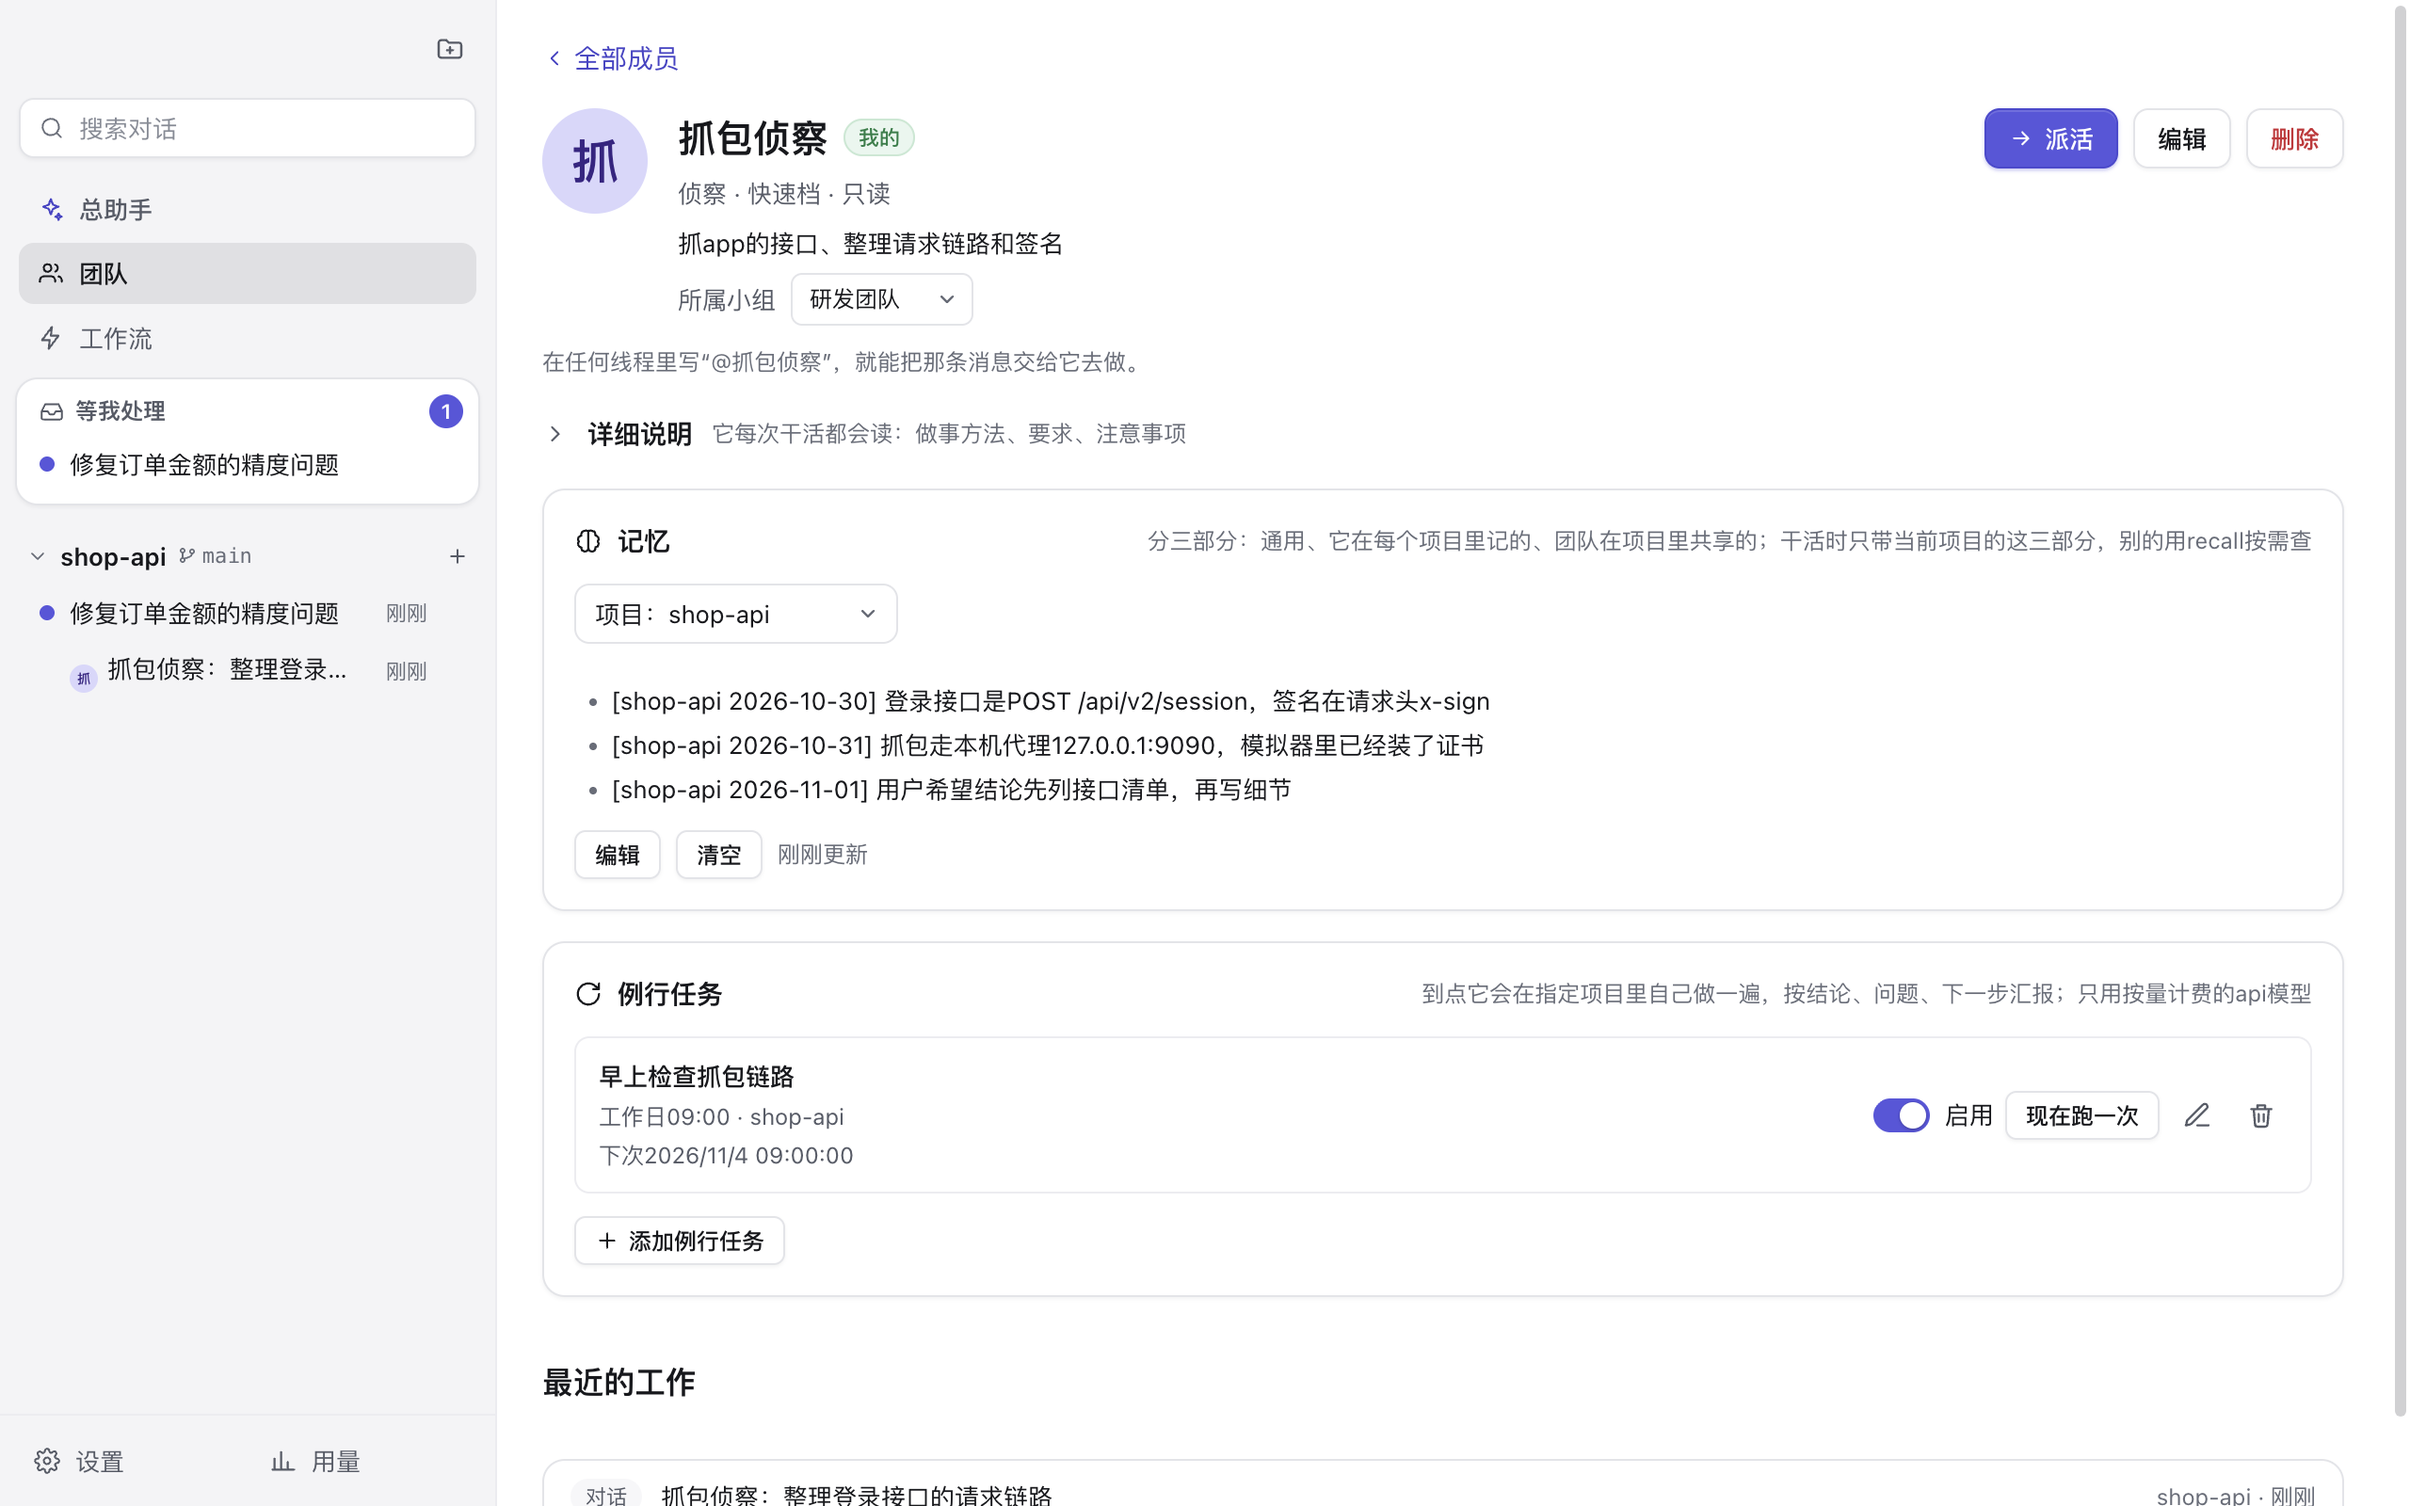
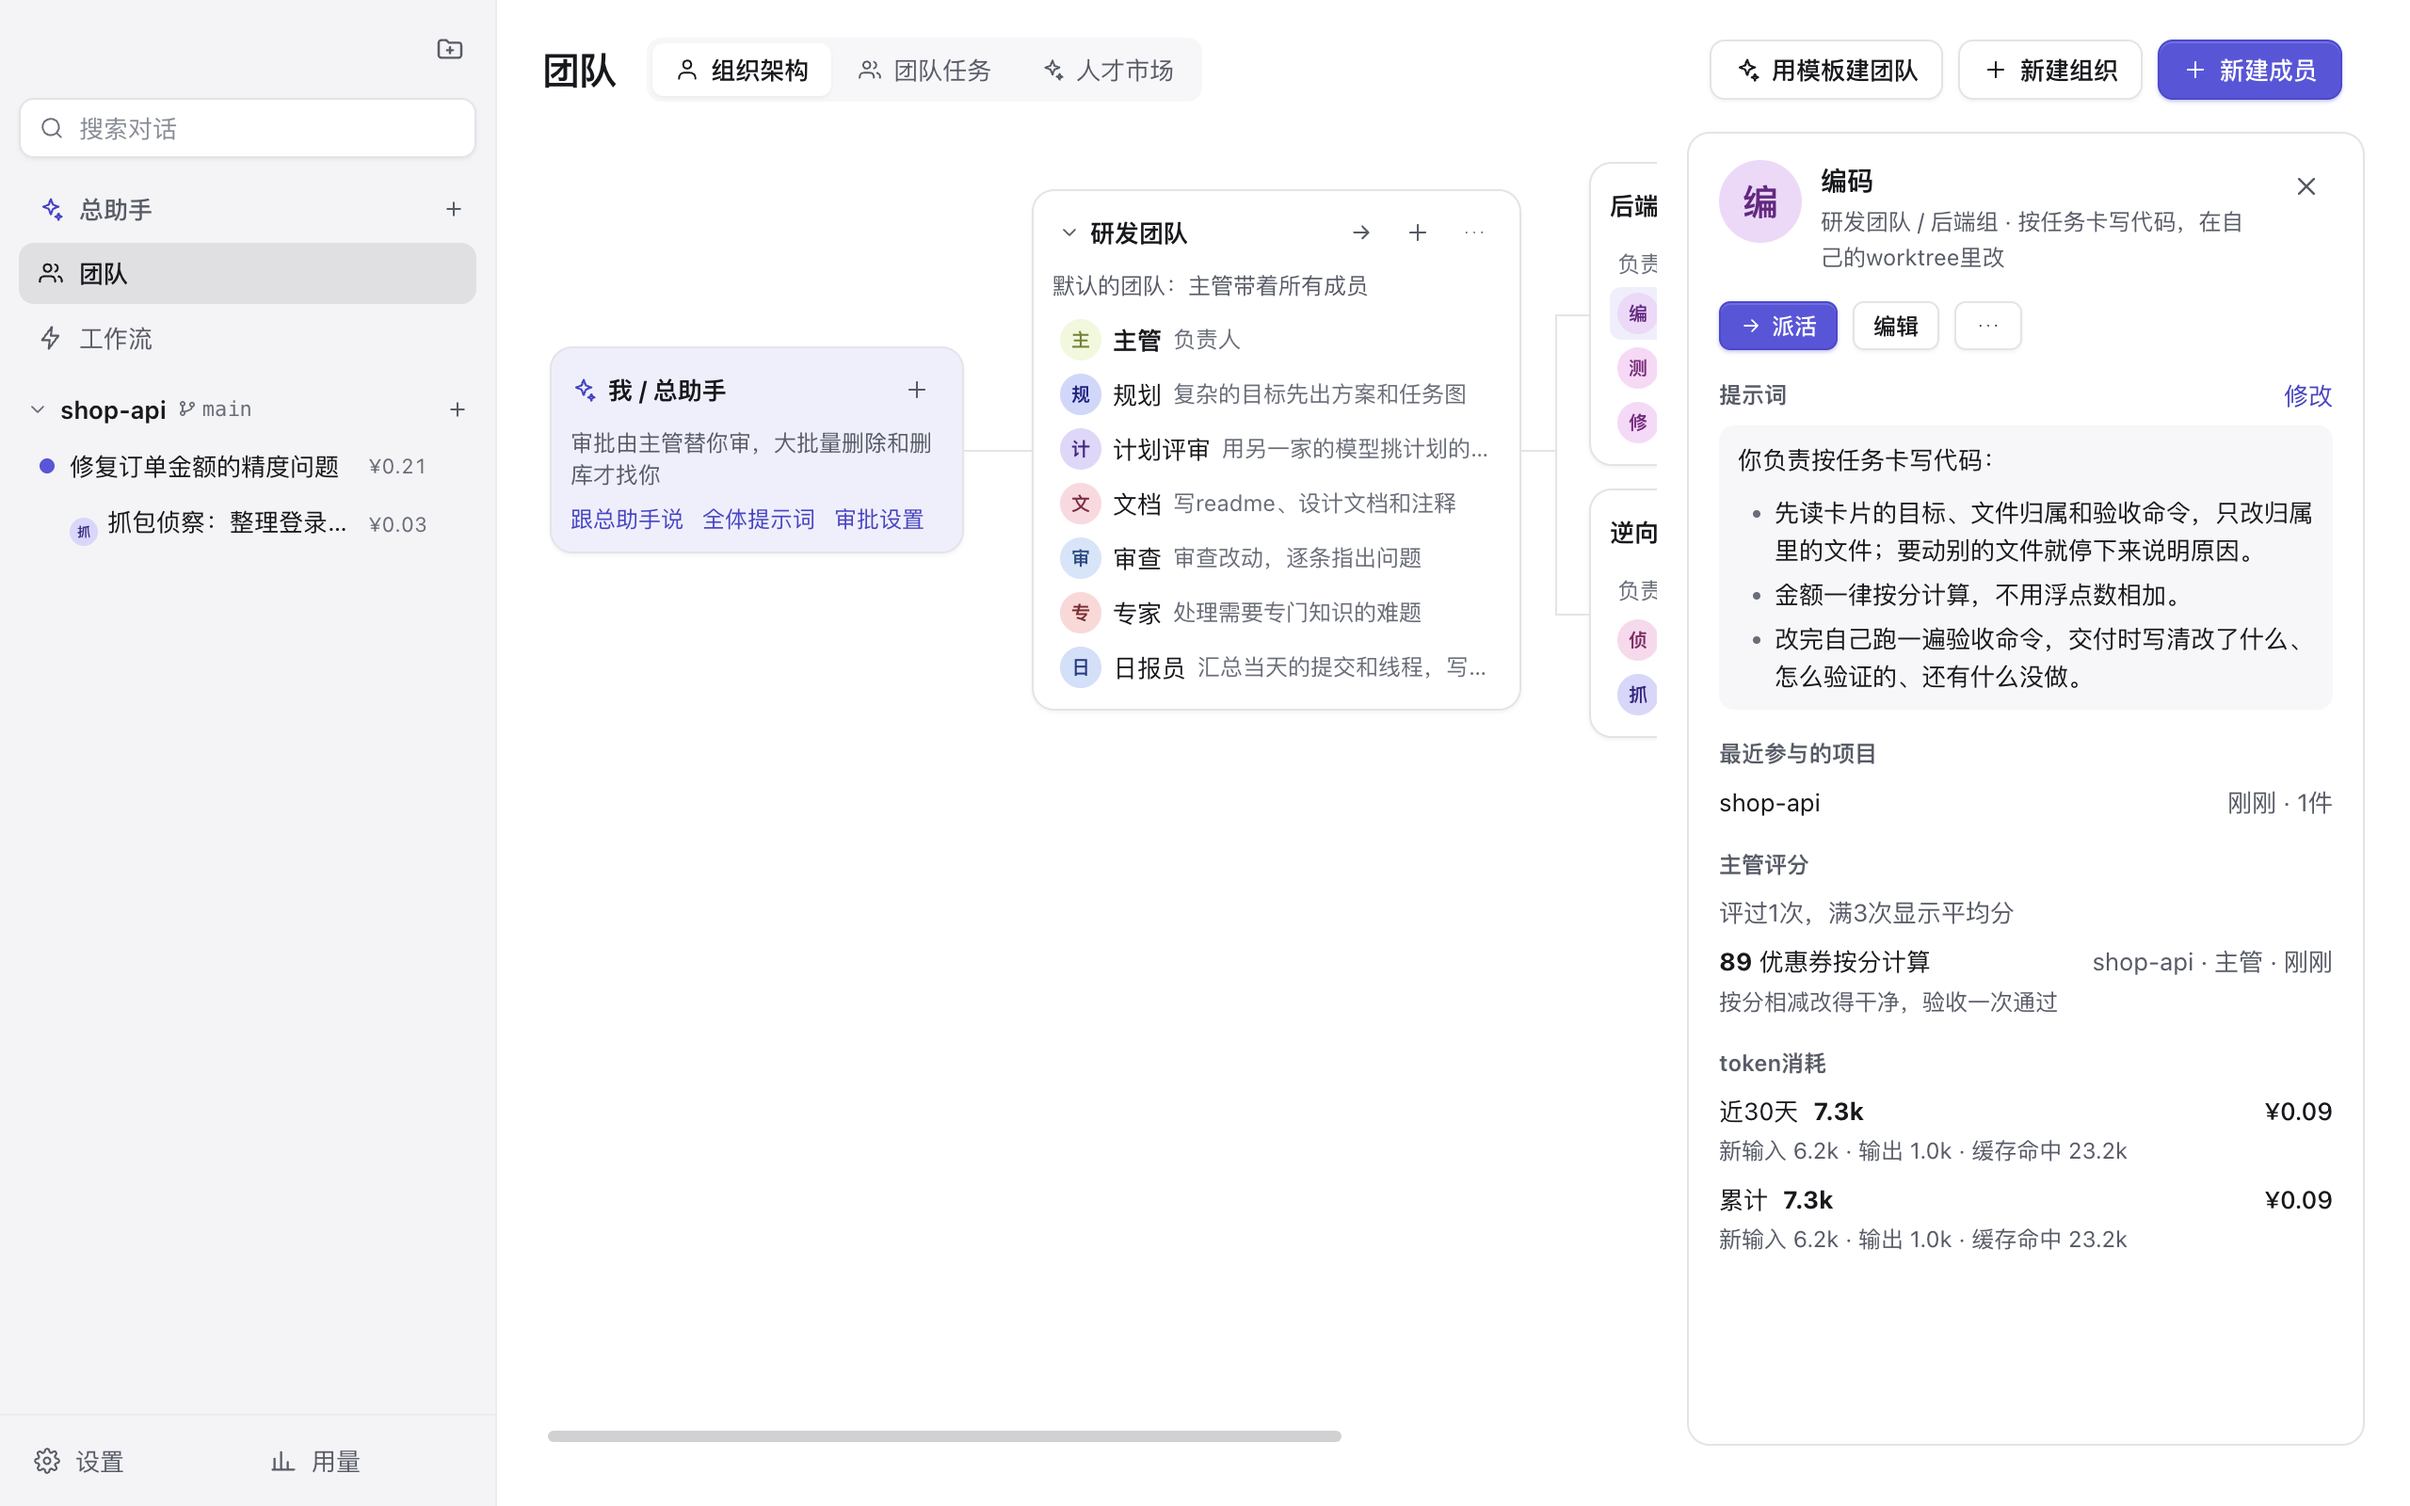
docs: the README for 1.2, with new screenshots
All screenshots taken again in the 1.2.0 package: the fix with its plan above
the composer, the organization tree with the back end and the reverse
engineering as organizations under the R&D team, the coder's panel with its
project, score and tokens, the talent market, the workflow, the team run and
the chief. The text follows: the chief belongs to no project, the tree and
its leads, the member panel, the market, the plan and the thinking.

The demo answers with DeepSeek's usage on the DeepSeek preset, so tokens and
costs read as they would; the supervisor scores the cards; the team run
writes a report of its own rather than the workflow's; the coder has
instructions in the user's words.

diff --git a/build/readme-shots.ts b/build/readme-shots.ts
@@ -8,14 +8,18 @@ import { fileURLToPath } from 'node:url';
 import { parseArgs } from 'node:util';
 import { FuseV1Options, FuseVersion, flipFuses, getCurrentFuseWire } from '@electron/fuses';
 import { type ElectronApplication, _electron as electron, type Page } from 'playwright-core';
-import { openaiText, openaiToolCalls, startMockModelServer } from '../packages/test-kit/src/index.ts';
+import {
+    startMockModelServer,
+    openaiText as textTurn,
+    openaiToolCalls as toolTurn,
+} from '../packages/test-kit/src/index.ts';
 import { forgetAppCopy, secretStoreSwitches } from './app-switches.ts';
 
 /**
  * The README's screenshots (docs/images/), taken in the real app against a scripted model server and a demo
- * project, so they show the product without anyone's paths, accounts or keys: a fix in a thread with its diff
- * (light and dark), the members, one member's memory and routines, a workflow run's conclusion, a team run and the
- * chief assistant's home.
+ * project, so they show the product without anyone's paths, accounts or keys: a fix in a conversation with its plan
+ * and diff (light and dark), the organization tree, one member's panel, the talent market, a workflow run's
+ * conclusion, a team run and a conversation with the chief assistant.
  *
  *   node build/readme-shots.ts                 unpackaged shell with dist/app-bundle (run `pnpm build && pnpm bundle`)
  *   node build/readme-shots.ts --app <exe>     a packaged build
@@ -123,6 +127,27 @@ test('takes coupons off in fen', () => {
     assert.equal(applyCoupon(0.3, { amount: 0.1 }), 0.2);
 });
 `;
+
+/**
+ * Every answer reports its usage as DeepSeek does, so tokens and costs read as they would: most of a prompt read
+ * from the cache, a few hundred tokens out. Made up, but the same on every run.
+ */
+let served = 0;
+function usage(): Record<string, number> {
+    served++;
+    const prompt = 6_000 + ((served * 2_741) % 9_000);
+    const hit = Math.round(prompt * (0.72 + ((served * 37) % 20) / 100));
+    return {
+        prompt_tokens: prompt,
+        completion_tokens: 180 + ((served * 113) % 700),
+        prompt_cache_hit_tokens: hit,
+        prompt_cache_miss_tokens: prompt - hit,
+    };
+}
+const openaiText = (text: string, options: Parameters<typeof textTurn>[1] = {}) =>
+    textTurn(text, { usage: usage(), ...options });
+const openaiToolCalls = (items: Parameters<typeof toolTurn>[0], options: Parameters<typeof toolTurn>[1] = {}) =>
+    toolTurn(items, { usage: usage(), ...options });
 
 function git(...args: string[]): void {
     execFileSync('git', args, { cwd: repo, stdio: 'ignore' });
@@ -359,6 +384,39 @@ server.respondWith((request) => {
             ].join('\n'),
         );
     }
+    // The supervisor scores each card once the report is written (19 §9): a small move on a base from the facts.
+    if (systemOf(body).includes('scoring how your members did')) {
+        return openaiText(
+            JSON.stringify({
+                scores: [
+                    { task: 'T1', adjust: 4, reason: '按分相减改得干净，验收一次通过' },
+                    { task: 'T2', adjust: 3, reason: '用例覆盖了小数金额和减到0' },
+                    { task: 'T3', adjust: 0, reason: 'CHANGELOG写清了这次修正' },
+                ],
+            }),
+        );
+    }
+    // The team run's report: what it set out to do and did.
+    if (
+        !body.tools?.length &&
+        JSON.stringify(messages).includes('## 目标达成') &&
+        user.includes('优惠券也改成按分计算')
+    ) {
+        return openaiText(
+            [
+                '## 目标达成',
+                '优惠券也按分计算了：0.3元减0.1元得0.2元，不再有小数误差；`node --test`四条全过，CHANGELOG记好了。',
+                '',
+                '## 已完成',
+                '- `applyCoupon`改成按分相减（`src/order.js`）',
+                '- 补了小数金额优惠券的用例，4条测试全过（`test/order.test.js`）',
+                '- CHANGELOG记下0.4.1修正了订单和优惠券金额的精度（`CHANGELOG.md`）',
+                '',
+                '## 下一步',
+                '- 打`v0.4.1`标签并发布',
+            ].join('\n'),
+        );
+    }
     // The brief of the finished workflow run.
     if (!body.tools?.length && JSON.stringify(messages).includes('## 目标达成')) {
         return openaiText(
@@ -406,6 +464,7 @@ server.respondWith((request) => {
                 '计划和代码对得上。\n\n```json\n{"verdict": "pass", "summary": "顺序合理，验收命令能跑", "issues": []}\n```',
             );
         case 'Coder':
+        case '编码':
         case 'Tester':
         case 'Writer':
             return member(body);
@@ -453,7 +512,8 @@ server.respondWith((request) => {
                     },
                 });
             case 2:
-                return calls({
+                // The plan moves on as it goes (03 §4): a line where it changed, the latest above the composer.
+                return calls(todo(['completed', 'completed', 'in_progress']), {
                     name: 'edit',
                     arguments: {
                         path: 'test/order.test.js',
@@ -630,8 +690,9 @@ try {
     );
     await page.locator('.welcome').waitFor();
 
+    // The DeepSeek preset, pointed at the scripted server: its models come with their prices.
     const connection = await hostCall<{ id: string }>(page, 'provider.save', {
-        presetId: 'custom-openai',
+        presetId: 'deepseek',
         name: 'DeepSeek',
         apiKey: 'demo-key',
         baseUrl: server.url,
@@ -703,6 +764,27 @@ try {
             projectId: project.id,
             instruction: '汇总今天的提交和线程，写进docs/daily/',
             enabled: true,
+        },
+    });
+    // The coder with instructions in the user's words, as people write their own (its panel shows them).
+    const roster = await hostCall<Array<{ id: string; tier: string; mode: string }>>(page, 'member.list', {});
+    const coder = roster.find((member) => member.id === 'coder');
+    await hostCall(page, 'member.save', {
+        scope: 'user',
+        member: {
+            id: 'coder',
+            name: '编码',
+            role: 'executor',
+            category: 'coding',
+            tier: coder?.tier ?? 'economy',
+            mode: coder?.mode ?? 'auto_edit',
+            description: '按任务卡写代码，在自己的worktree里改',
+            prompt: [
+                '你负责按任务卡写代码：',
+                '- 先读卡片的目标、文件归属和验收命令，只改归属里的文件；要动别的文件就停下来说明原因。',
+                '- 金额一律按分计算，不用浮点数相加。',
+                '- 改完自己跑一遍验收命令，交付时写清改了什么、怎么验证的、还有什么没做。',
+            ].join('\n'),
         },
     });
     const memories: Record<string, string[]> = {
@@ -792,13 +874,42 @@ try {
     );
 
     phase('members');
-    // The organization tree (19 §11), and the panel of one member.
+    // The organization tree (19 §11): the back end and the reverse engineering get organizations of their own under
+    // the R&D team, each with a prompt its members carry. Made after the runs, which take the whole organization.
+    const chart = await hostCall<{ groups: Array<{ id: string; name: string }> }>(page, 'org.get', {});
+    const rd = chart.groups.find((group) => group.name === '研发团队') ?? chart.groups[0];
+    await hostCall(page, 'org.saveGroup', {
+        name: '后端组',
+        parentId: rd?.id ?? null,
+        memberIds: ['coder', 'tester', 'debugger'],
+        prompt: '金额一律按分计算；改了接口先更新docs/api.md。',
+    });
+    await hostCall(page, 'org.saveGroup', {
+        name: '逆向组',
+        parentId: rd?.id ?? null,
+        memberIds: [packet.id, 'scout'],
+        prompt: '抓包结论写清请求链路和签名方式，每条附上抓到的请求。',
+    });
     await page.locator('.sidebar__nav', { hasText: '团队' }).click();
-    await page.locator('.omember', { hasText: '抓包侦察' }).waitFor();
+    await page.locator('.onode', { hasText: '逆向组' }).locator('.omember', { hasText: '抓包侦察' }).waitFor();
     await shot(page, 'xora-members');
-    await page.locator('.omember', { hasText: '抓包侦察' }).click();
+    // The panel of a member that worked on the team run: its project, the supervisor's score, its tokens.
+    await page.locator('.omember', { hasText: '编码' }).click();
     await page.locator('.org-panel [data-block=tokens]').waitFor();
     await shot(page, 'xora-member');
+
+    phase('talent market');
+    // 19 §14: every built-in persona, to read and hire into an organization.
+    await page.keyboard.press('Escape');
+    await page.getByRole('tab', { name: '人才市场' }).click();
+    await page.locator('.talent').nth(8).waitFor();
+    // The hands-on ones: in an organization already, or free to hire.
+    await page.locator('.talent-page__roles .chip', { hasText: '执行' }).click();
+    await page
+        .locator('.talent', { hasText: '前端工程师' })
+        .getByRole('button', { name: '聘用', exact: true })
+        .waitFor();
+    await shot(page, 'xora-talent');
 
     phase('workflow view');
     // The workflow run: its conclusion first, the process unfolded under it.
@@ -821,8 +932,8 @@ try {
     phase('chief');
     // The chief assistant (06 §23), the one place to ask: it answers from what the team, the workflows and the
     // threads did, and hands work on.
+    // It belongs to no project: nothing to pick, it works out which one is meant.
     const chief = await hostCall<{ id: string }>(page, 'chief.start', {
-        projectId: project.id,
         text: '这周shop-api做到哪了？有什么要我决定的？',
     });
     await settled(page, chief.id);
